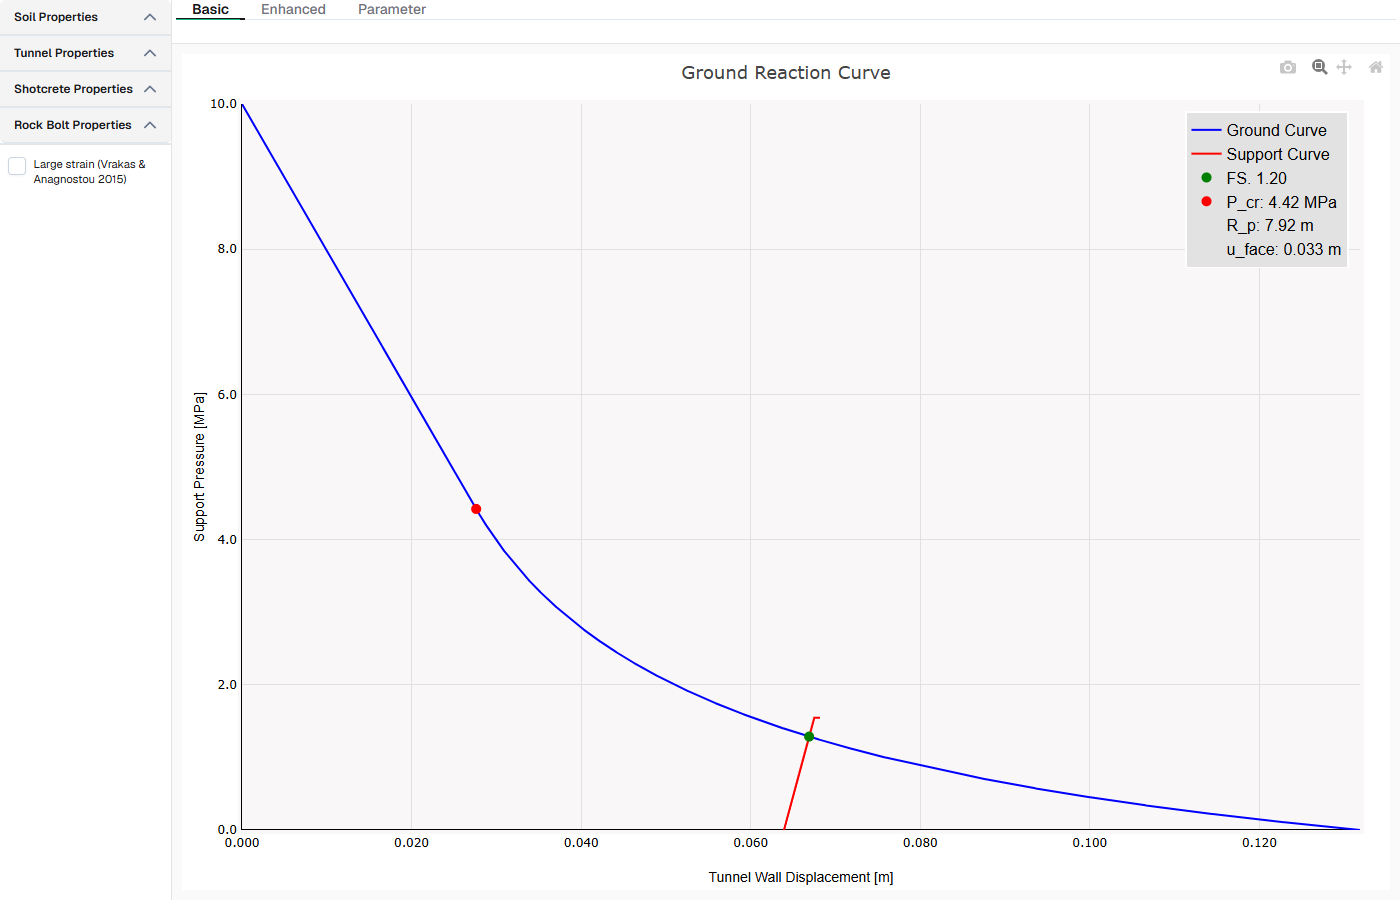
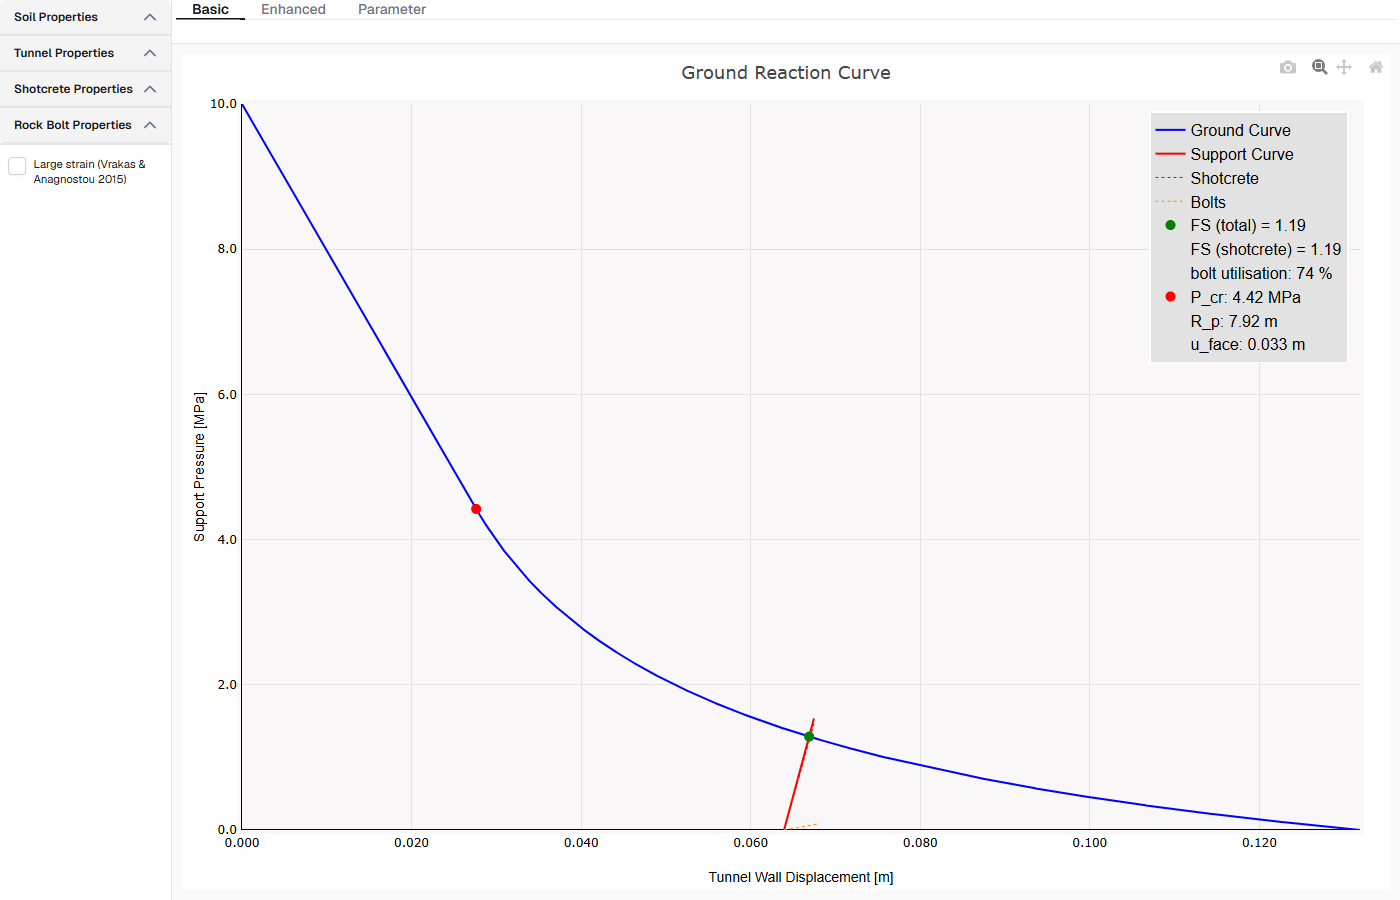
Regenerate screenshots for the new support combination and failure rule
Desktop Basic/Enhanced (also with large strain), phone Basic/Enhanced/
bottom/sidebar and the LSC cases A (capacity insufficient), B (shotcrete
fails, replaces desktop_enhanced_shotcrete_limit_caseB.png) and C. Default
case now shows separate shotcrete and bolt curves, FS 1.19, and a support
curve ending at p_max,SpC.

Changed region(s): [[0.8293, 0.1244, 0.9521, 0.4044]]

diff --git a/STATUS.md b/STATUS.md
@@ -31,8 +31,10 @@ Stand: 2026-10-16, Branch `web` (nicht gemergt).
     Legende „> 100 %: overloaded (max … %)", Achse in ganzen Prozent.
   - Enhanced-Tab bei F_LSC > 0 mit Untertitel: „FS from 28-day elastic support curve; σ(t) and μ_SpC from
     rate-of-flow method – yield path start/end can differ between both."
-  - Screenshot Fall C: `docs/screenshots/web/desktop_enhanced_lsc_caseC.png` (Desktop 1400 px, Stand vor
-    der u_im-Korrektur und mit dem inzwischen entfernten Untertitel).
+  - Screenshot Fall C: `docs/screenshots/web/desktop_enhanced_lsc_caseC.png` (Desktop 1400 px).
+- Screenshots unter `docs/screenshots/web/` auf dem Stand der Entscheide (a)–(c) neu erzeugt (Desktop Basic/
+  Enhanced, mit Large strain, Handy Basic/Enhanced/unten/Seitenleiste, Fälle A, B, C); `desktop_parameter.png`
+  und `phone_parameter.png` unverändert (Parameter-Tab nicht betroffen).
   - Eingabe „LSC force" (F_LSC) und „LSC" mit Hilfetext in der Seitenleiste. Der Hinweis „FS aus
     28-Tage-Kennlinie, σ(t)/μ_SpC aus Fließratenmethode" steht im README unter LSC (nicht mehr im Diagramm).
 - Kein Gleichgewicht: FS „–", Meldung im Basic- und Enhanced-Tab; New LDP, Stress (actual), μ_SpC und die
